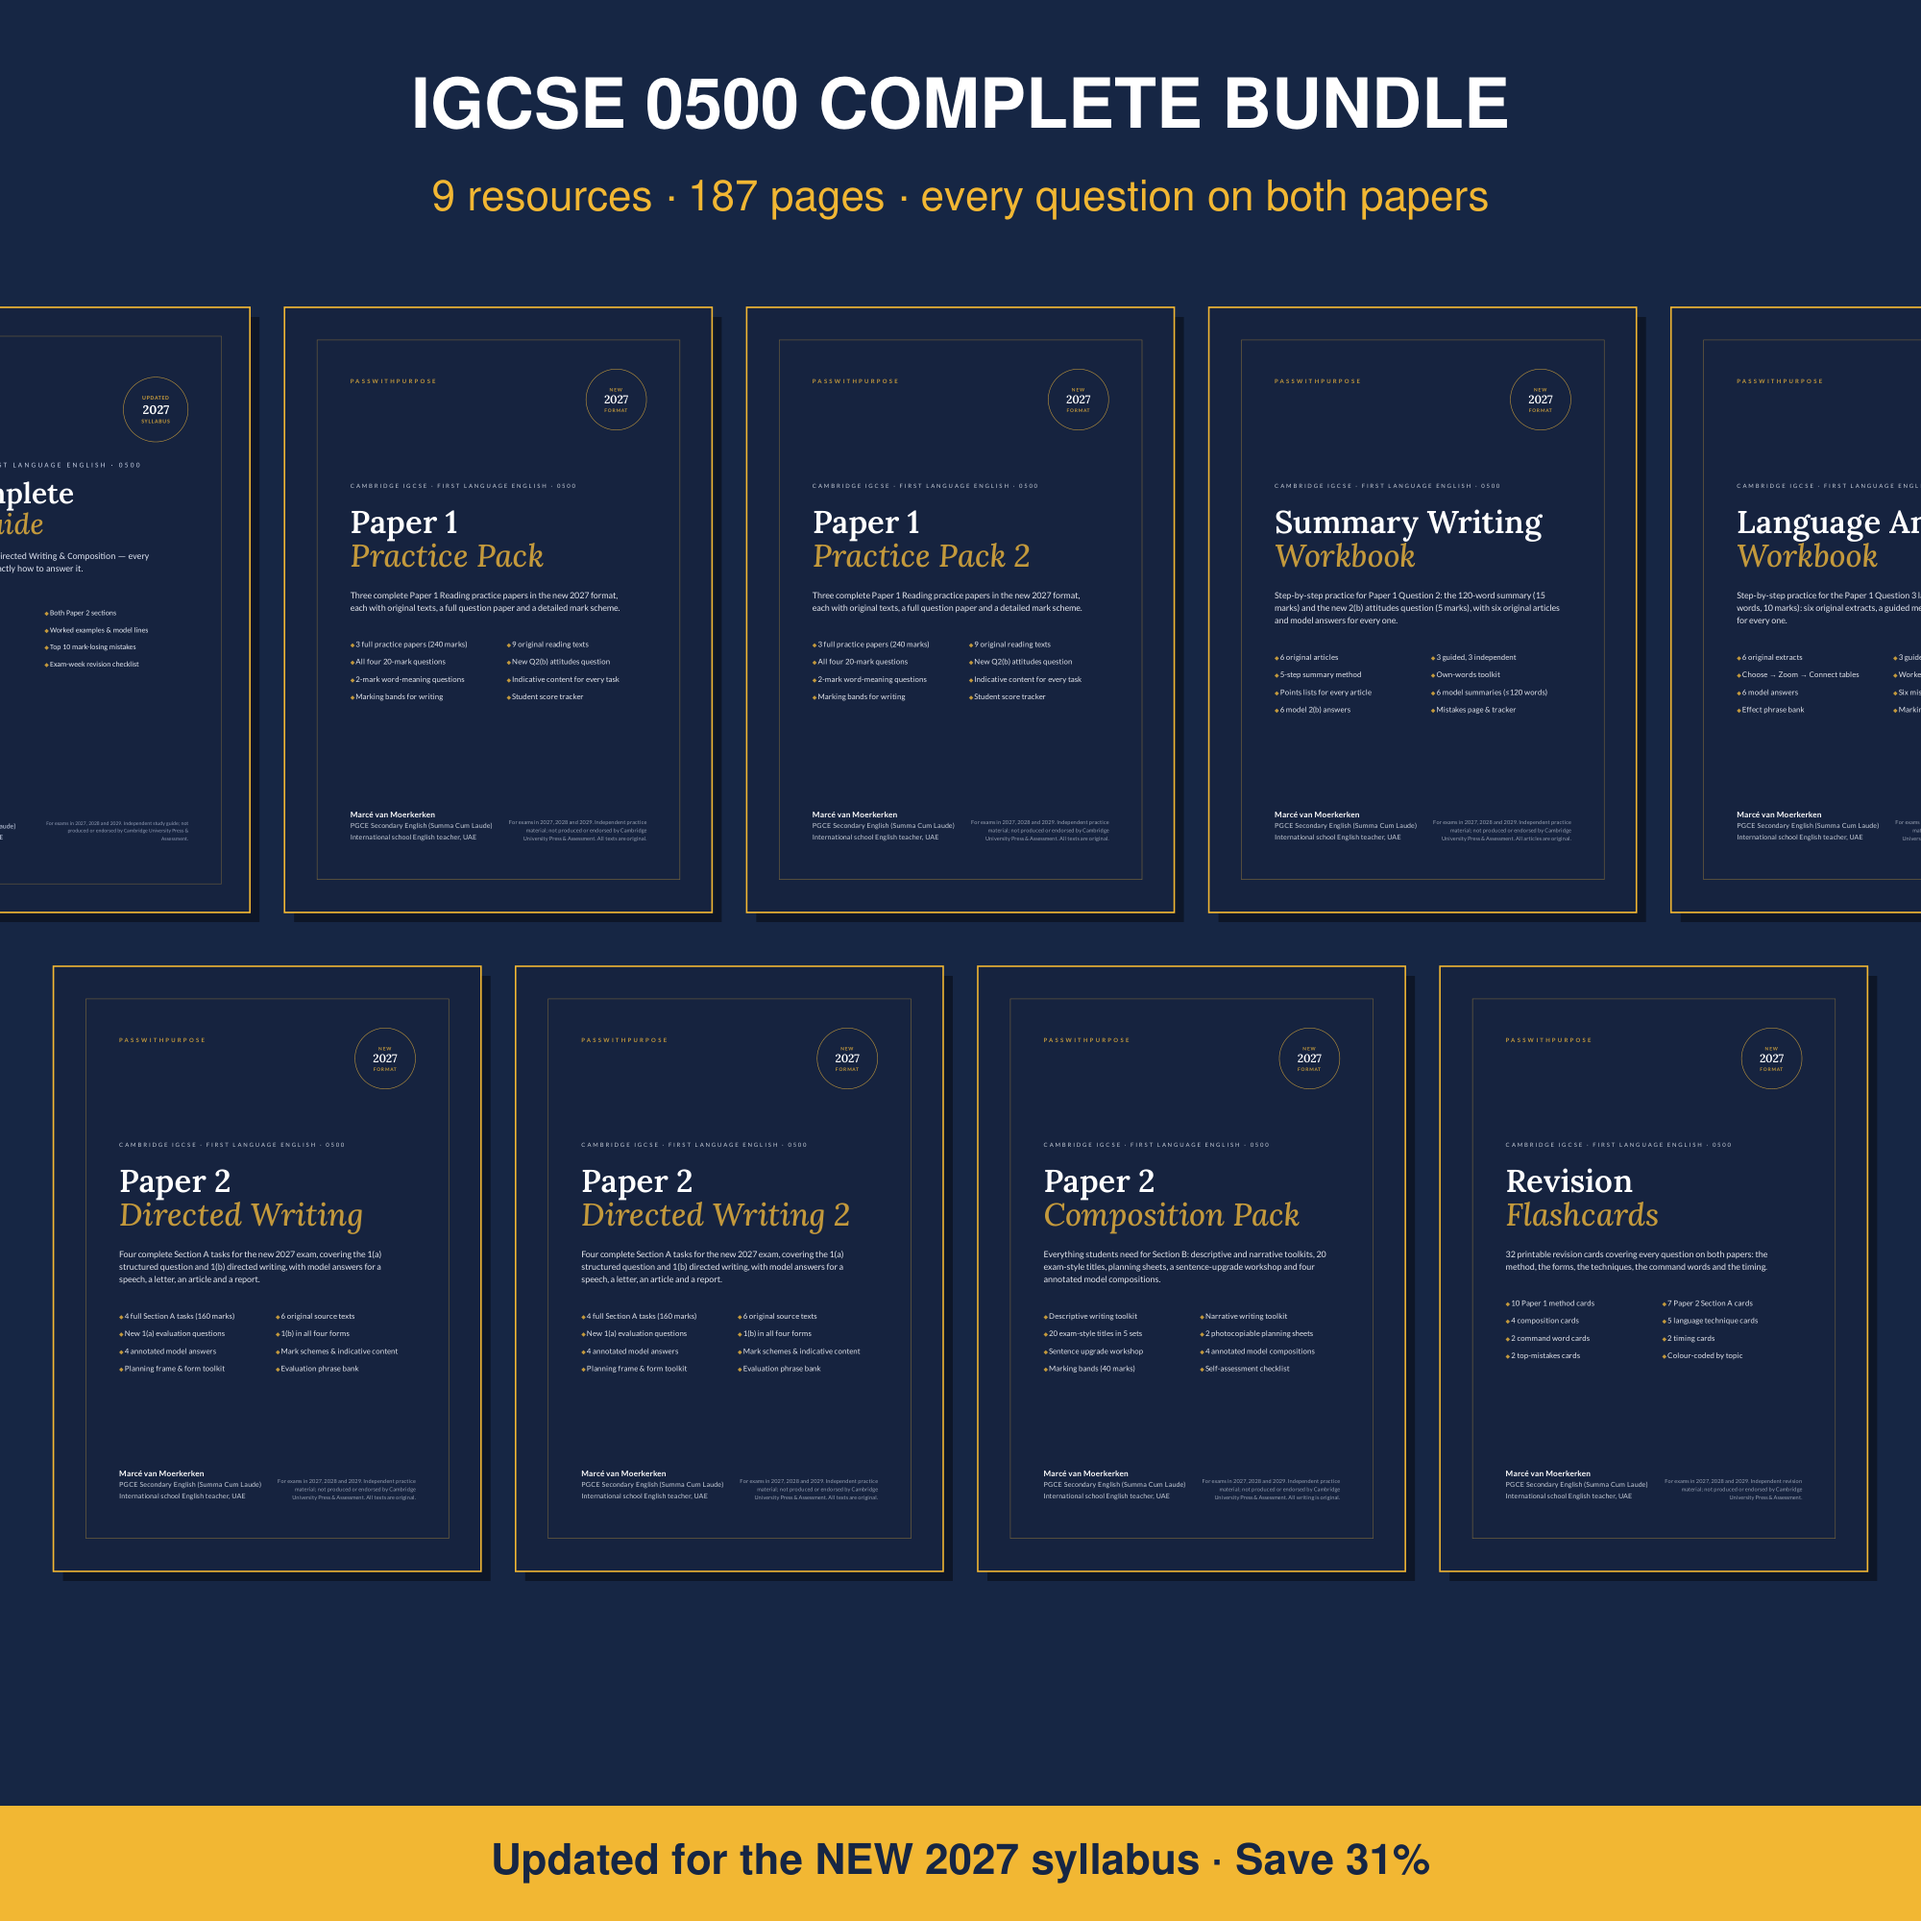
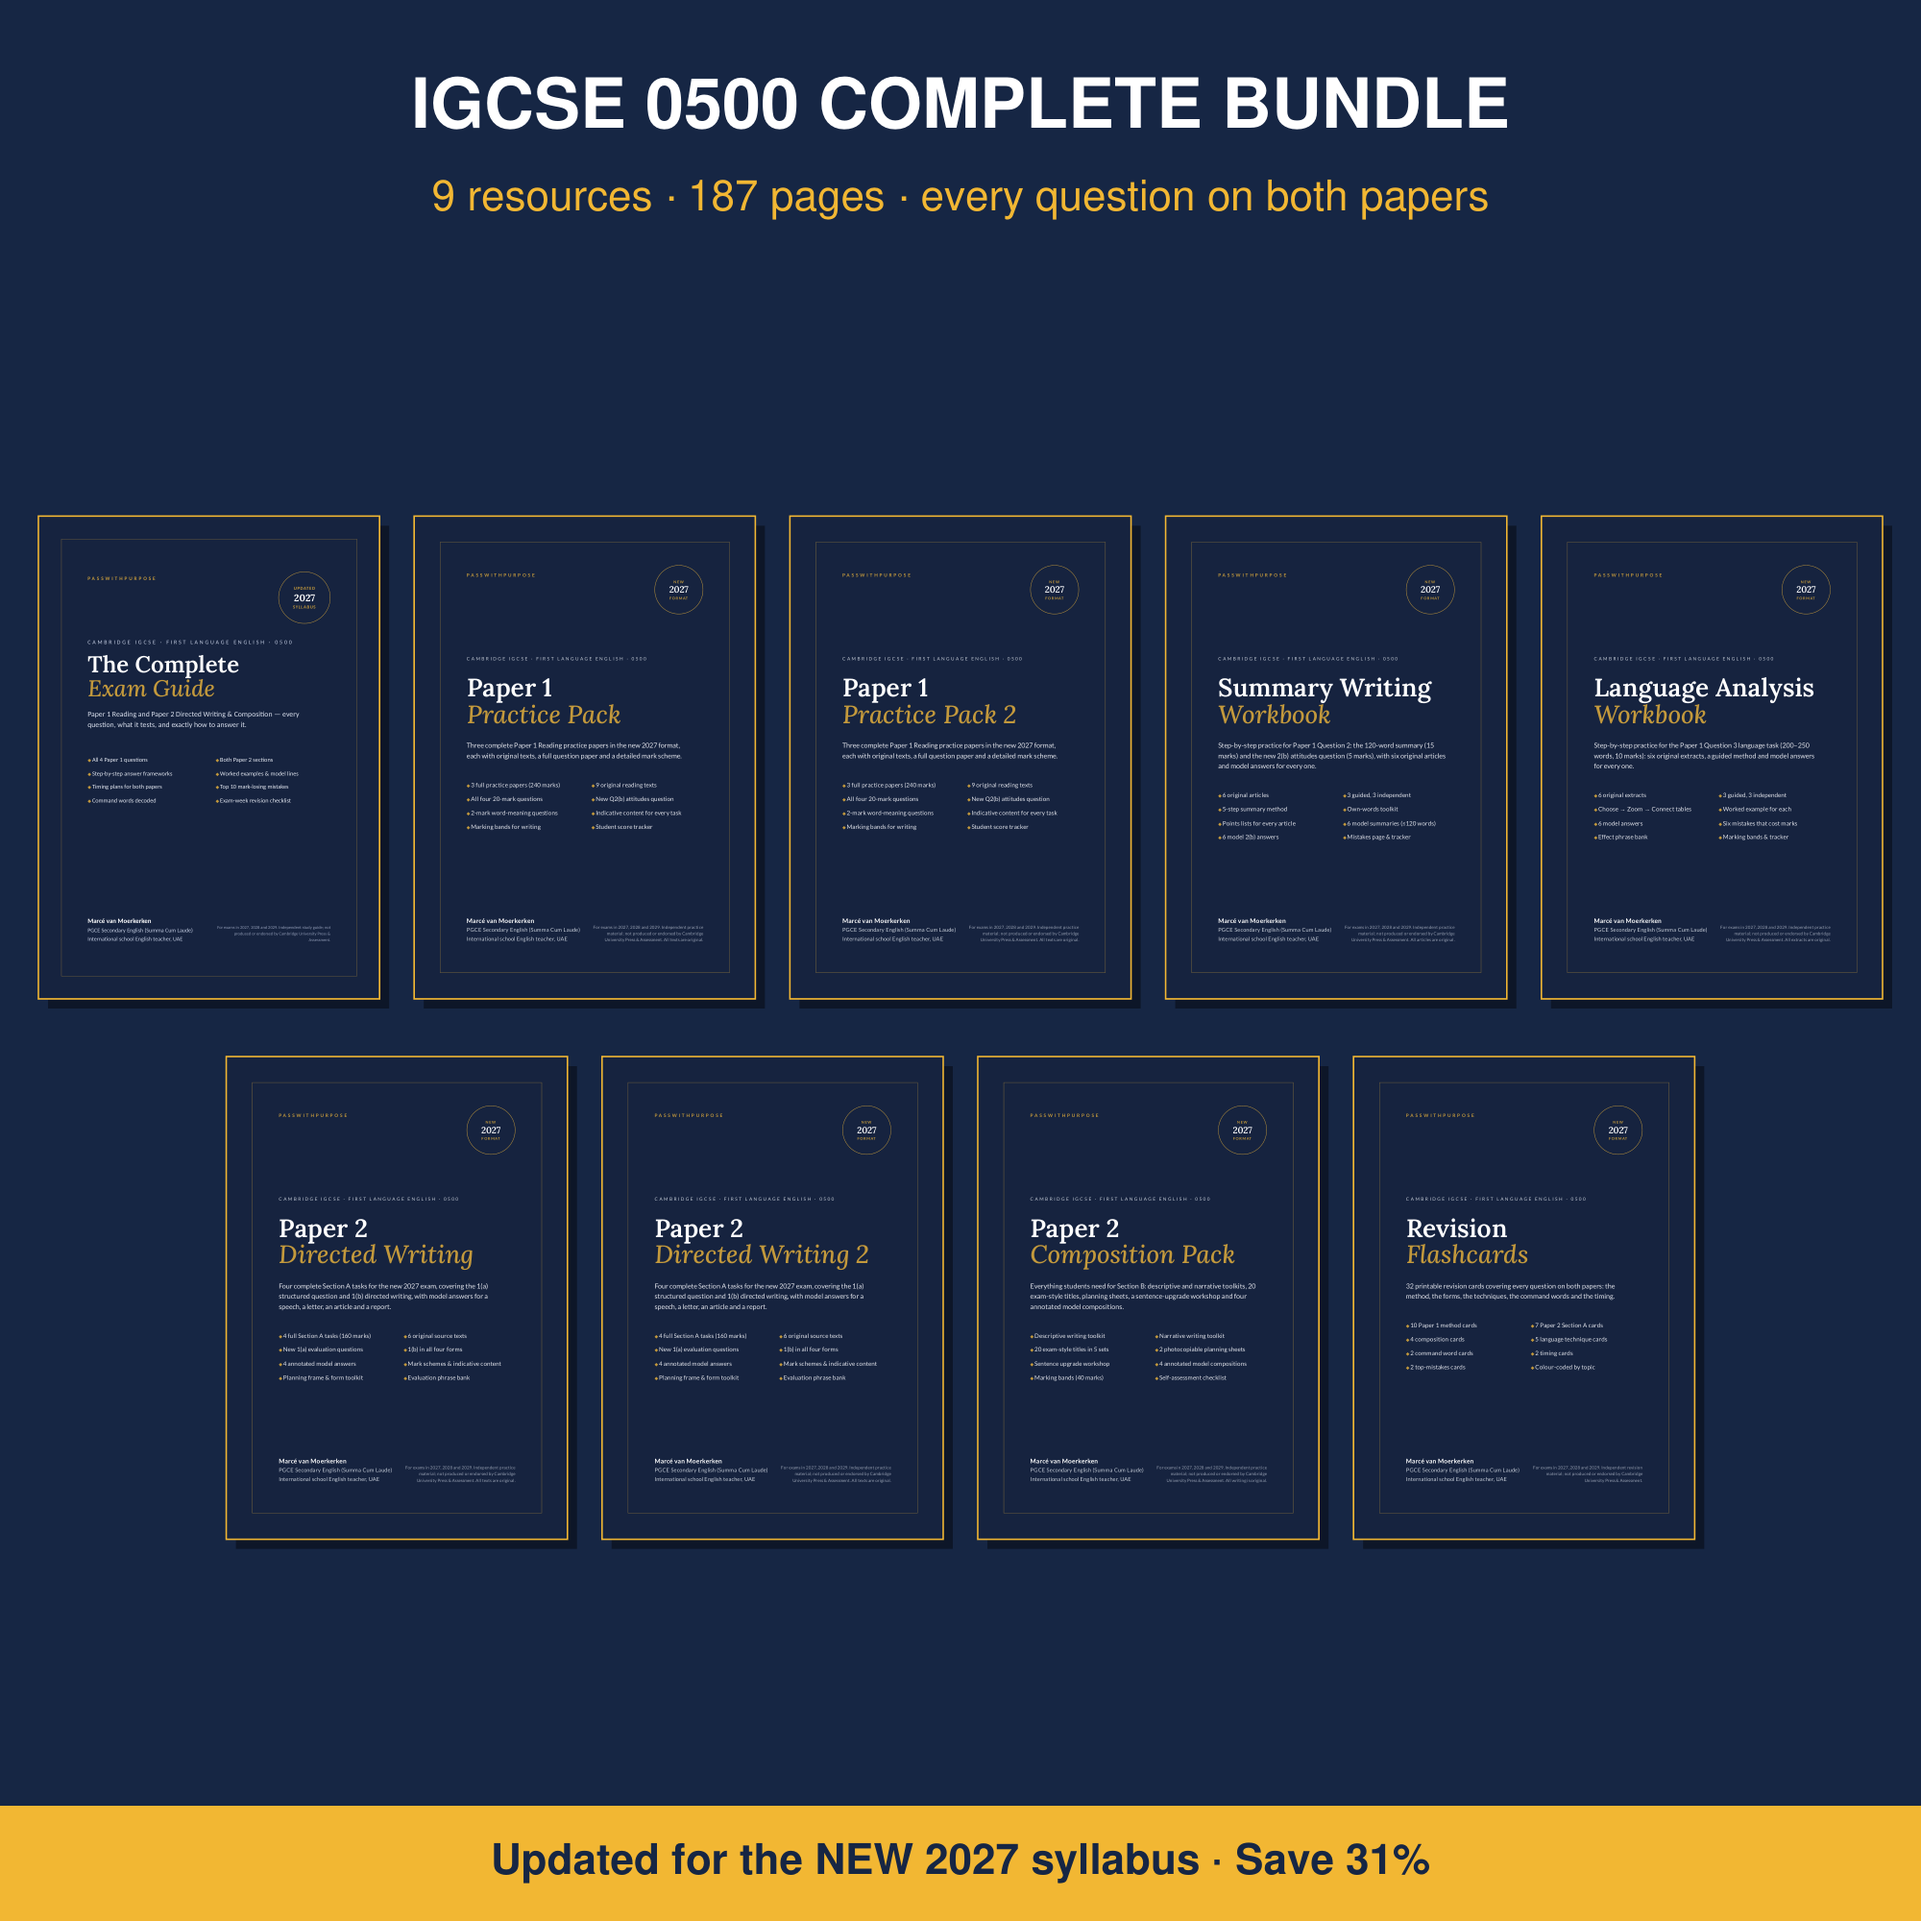
Bundle thumbnail: shrink covers to fit wide rows and centre vertically
Claude-Session: https://claude.ai/code/session_015Tac6twTZbTuda3BTvYgqQ

diff --git a/tpt/make_previews.py b/tpt/make_previews.py
@@ -138,9 +138,11 @@ def bundle_thumbnail(cfg):
     fit(pg, pymupdf.Rect(30, 86, W - 30, 126), cfg["sub"], 22, "helv", GOLD)
     files = cfg["files"]; n = len(files); top = (n + 1) // 2
     rows = [files[:top], files[top:]]
-    h, gap = 315, 18
+    gap = 18
+    h = min(315, (W - 40 - (top - 1) * gap) / top / A4)   # shrink covers so the widest row fits
     w = h * A4
-    for r, (row, y) in enumerate(zip(rows, (160, 160 + h + 28))):
+    y0 = 130 + (H - 60 - 130 - (2 * h + 30)) / 2          # centre both rows between subtitle and banner
+    for r, (row, y) in enumerate(zip(rows, (y0, y0 + h + 30))):
         x0 = (W - (len(row) * w + (len(row) - 1) * gap)) / 2
         for k, f in enumerate(row):
             rect = pymupdf.Rect(x0 + k * (w + gap), y, x0 + k * (w + gap) + w, y + h)
